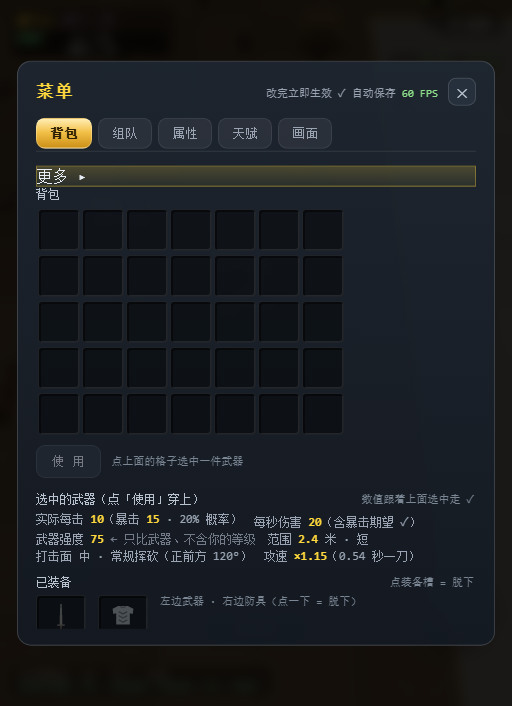
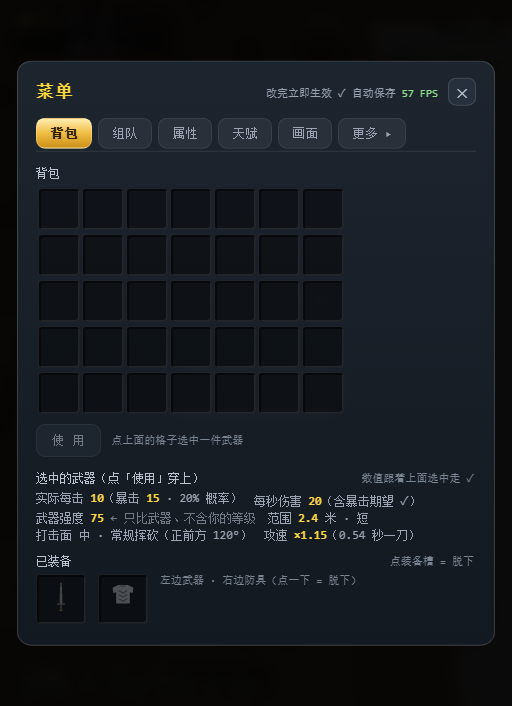
round257c: bind the more button directly (click+touchend) and neutralise the tab bar swallow guard

diff --git a/web/index.html b/web/index.html
@@ -638,28 +638,45 @@
 
 
 <script>
-/* round257: two-page tab bar; more swaps in page 2 in place (no scrolling). */
+/* round257c: two-page tab bar - bind DIRECTLY on the button, and listen to
+   both click and touchend, because the tab bar has a _swallow guard that
+   eats clicks after a touch drag. Also neutralise that guard. */
 (function () {
   function bar() { return document.getElementById('setTabs'); }
   function goPage(n) {
     var b = bar();
     if (!b) { return; }
     if (n === 2) { b.classList.add('page2'); } else { b.classList.remove('page2'); }
-    var more = document.getElementById('tabMore');
-    if (more) { more.textContent = (n === 2) ? ('◂ ' + '返回') : ('更多 ' + '▸'); }
+    var m = document.getElementById('tabMore');
+    if (m) { m.textContent = (n === 2) ? '◂ 返回' : '更多 ▸'; }
   }
-  document.addEventListener('click', function (e) {
-    var el = e.target;
-    if (!el || !el.classList) { return; }
-    if (el.id === 'tabMore') {
-      var b = bar();
-      goPage(b && b.classList.contains('page2') ? 1 : 2);
-      e.stopPropagation();
-      return;
-    }
-    if (el.classList.contains('tab') && el.getAttribute('data-page') === '2') { goPage(2); }
-  }, true);
+  function toggle(e) {
+    if (e) { e.preventDefault(); e.stopPropagation(); }
+    var b = bar();
+    goPage(b && b.classList.contains('page2') ? 1 : 2);
+    return false;
+  }
+  function bind() {
+    var m = document.getElementById('tabMore');
+    if (!m || m._bound) { return !!m; }
+    m._bound = true;
+    /* direct binding - no delegation, nothing in between can swallow it */
+    m.addEventListener('click', toggle, true);
+    m.addEventListener('touchend', toggle, true);
+    m.addEventListener('touchstart', function (e) { e.stopPropagation(); }, true);
+    /* the old drag guard would eat this click - switch it off */
+    var b = bar();
+    if (b) { Object.defineProperty(b, '_swallow', { get: function () { return false; }, set: function () { } }); }
+    return true;
+  }
+  if (!bind()) {
+    var tries = 0;
+    var iv = setInterval(function () {
+      if (bind() || ++tries > 40) { clearInterval(iv); }
+    }, 250);
+  }
   window._setTabPage = goPage;
+  window._tabMoreBound = function () { var m = document.getElementById('tabMore'); return !!(m && m._bound); };
 })();
 </script>
 </body></html>
